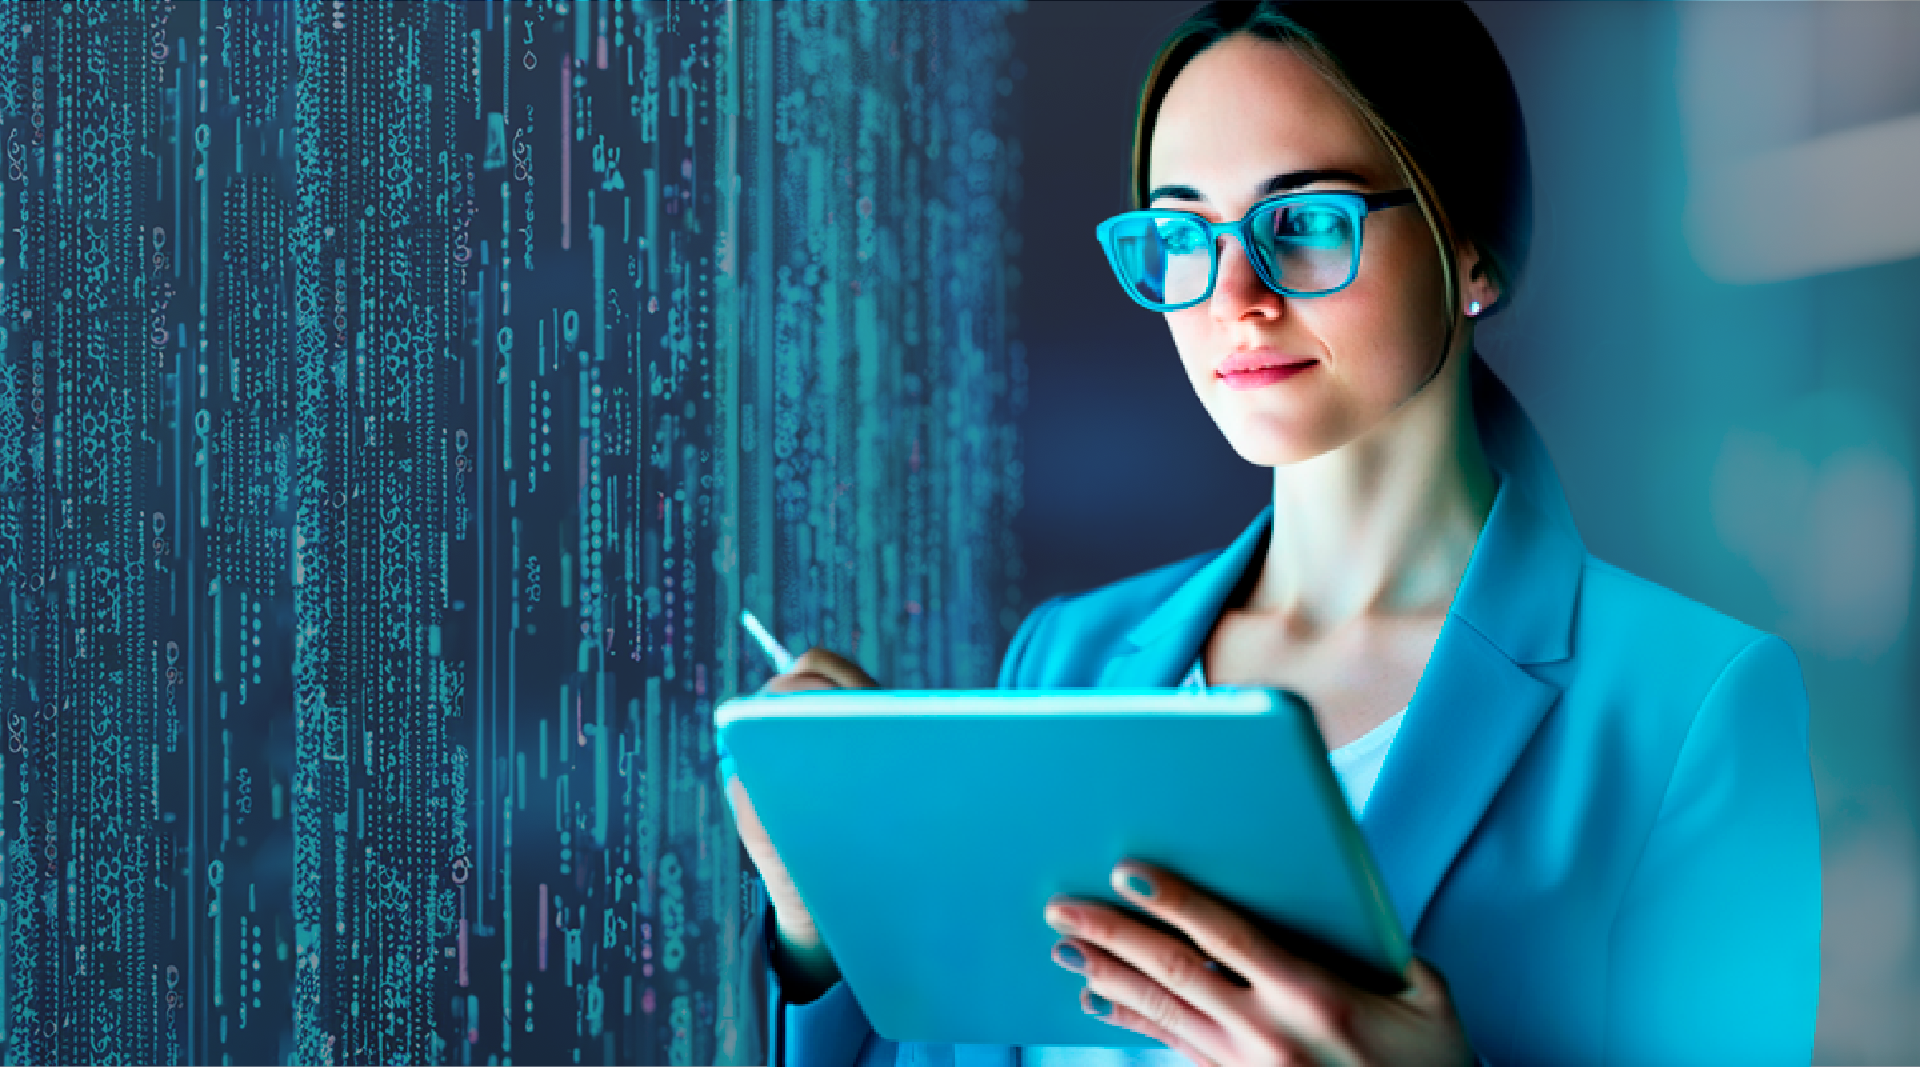
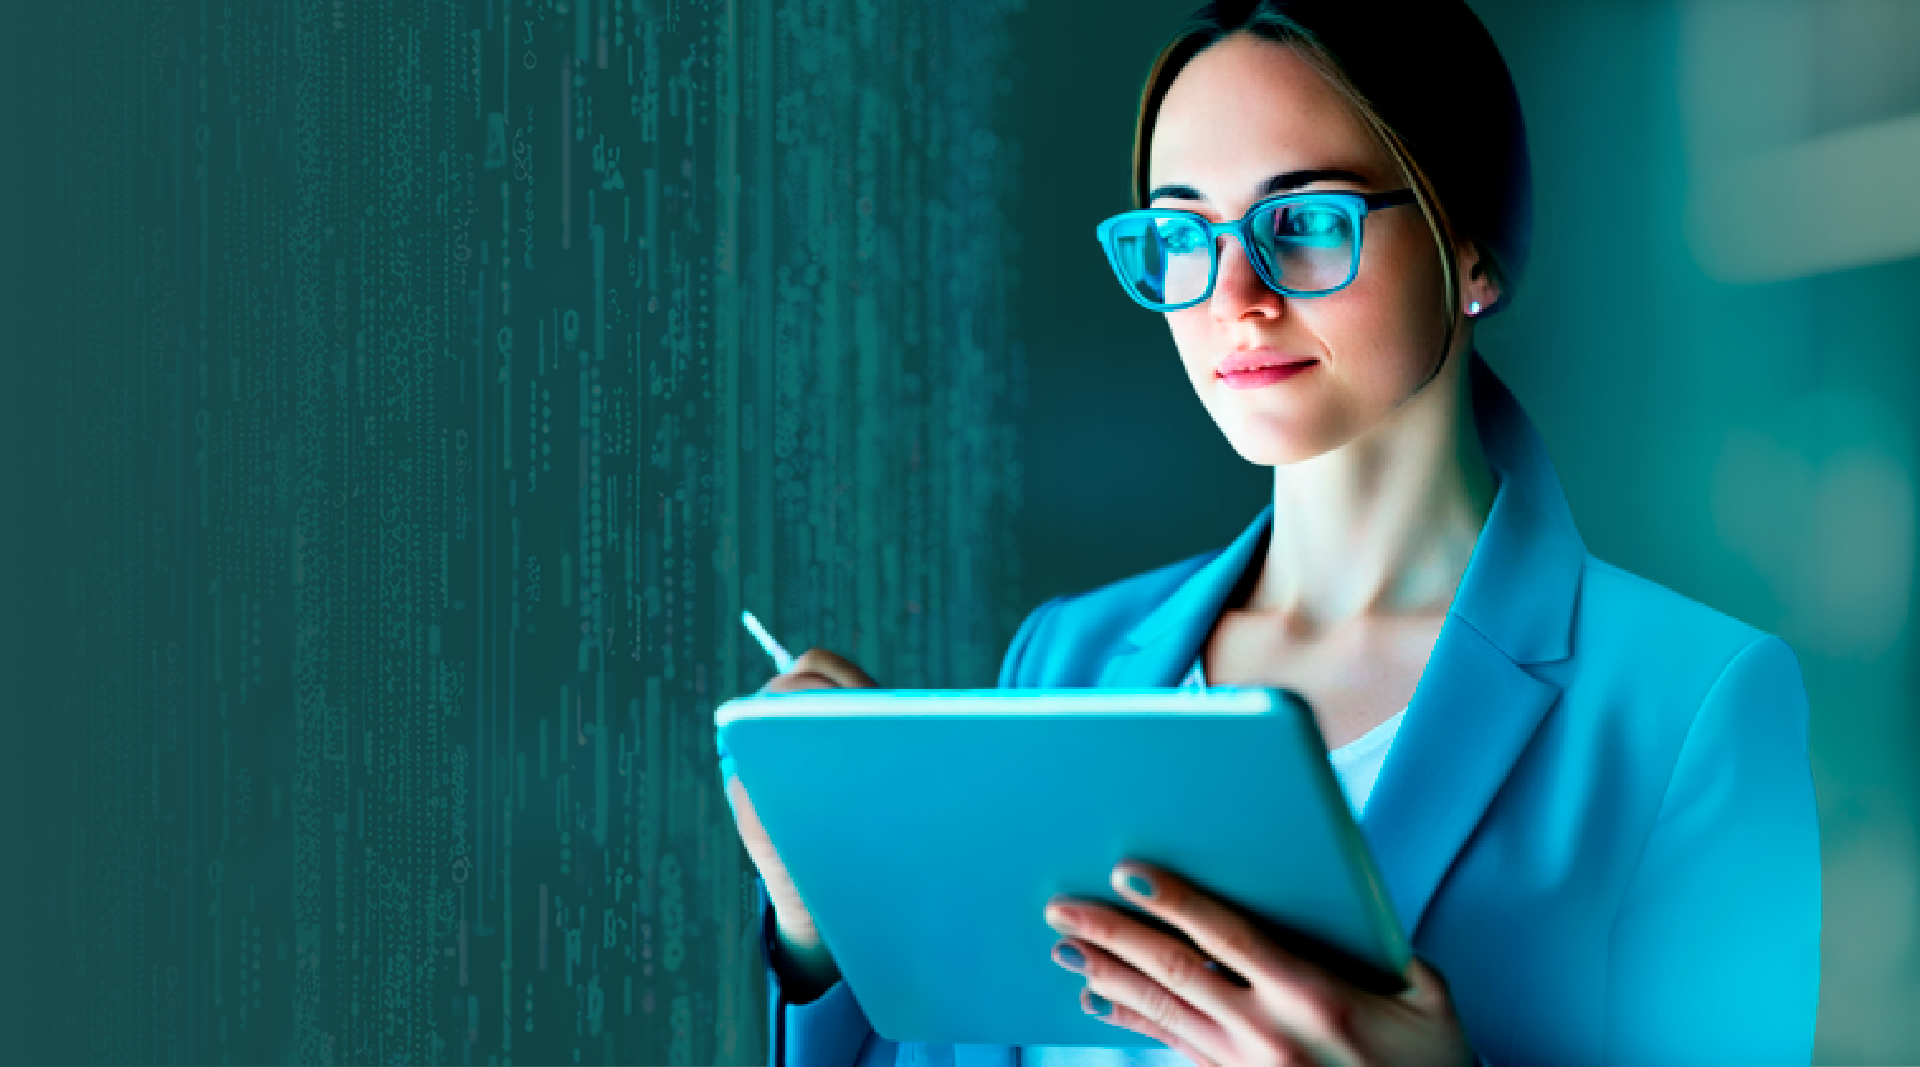
chore: color sessions and image

diff --git a/source/_assets/scss/_hero.scss b/source/_assets/scss/_hero.scss
@@ -148,11 +148,12 @@
 
 .ud-hero-buttons {
   .ud-main-btn {
-    background-color: var(--accent-color);
+    background-color: #ffc107ff;
     padding: 12px 16px;
     border-radius: 32px;
     font-size: 18px;
     font-weight: bold;
+    color: var(--primary-color);
 
     &:hover {
       filter: brightness(1.25);

diff --git a/source/_assets/scss/_main.scss b/source/_assets/scss/_main.scss
@@ -3,7 +3,7 @@
 @import "../../../node_modules/lineicons/web-font/lineicons.css";
 
 .ud-main-btn {
-    background-color: var(--primary-color);
+    background-color: #ffc107ff;
 }
 
 /*cards target audience*/

diff --git a/source/index.blade.php b/source/index.blade.php
@@ -76,7 +76,7 @@
           </div>
         </div>
         <div class="row text-center justify-content-evenly">
-          <div class="col-xl-4 col-md-6 col-sm-12 col-12 text-card mb-4">
+          <div class="col-md-4 col-sm-12 col-12 text-card mb-4">
             <div class="main-cards">
               <div class="card-header-section">
                 <h5>{{ $page->t("Legal Validity and Undisputed Compliance?")}}</h5>
@@ -100,7 +100,7 @@
               </div>
             </div>
           </div>
-          <div class="col-xl-4 col-md-6 col-sm-12 col-12 text-card mb-4">
+          <div class="col-md-4 col-sm-12 col-12 text-card mb-4">
             <div class="main-cards">
               <div class="card-header-section">
                 <h5>{{ $page->t("Simple, Secure and Affordable Digital Signature?")}}</h5>
@@ -124,7 +124,7 @@
               </div>
             </div>
           </div>
-          <div class="col-xl-4 col-md-6 col-sm-12 col-12 text-card mb-4">
+          <div class="col-md-4 col-sm-12 col-12 text-card mb-4">
             <div class="main-cards">
               <div class="card-header-section">
                 <h5>{{ $page->t("Total Control and Flexibility to Integrate?")}}</h5>